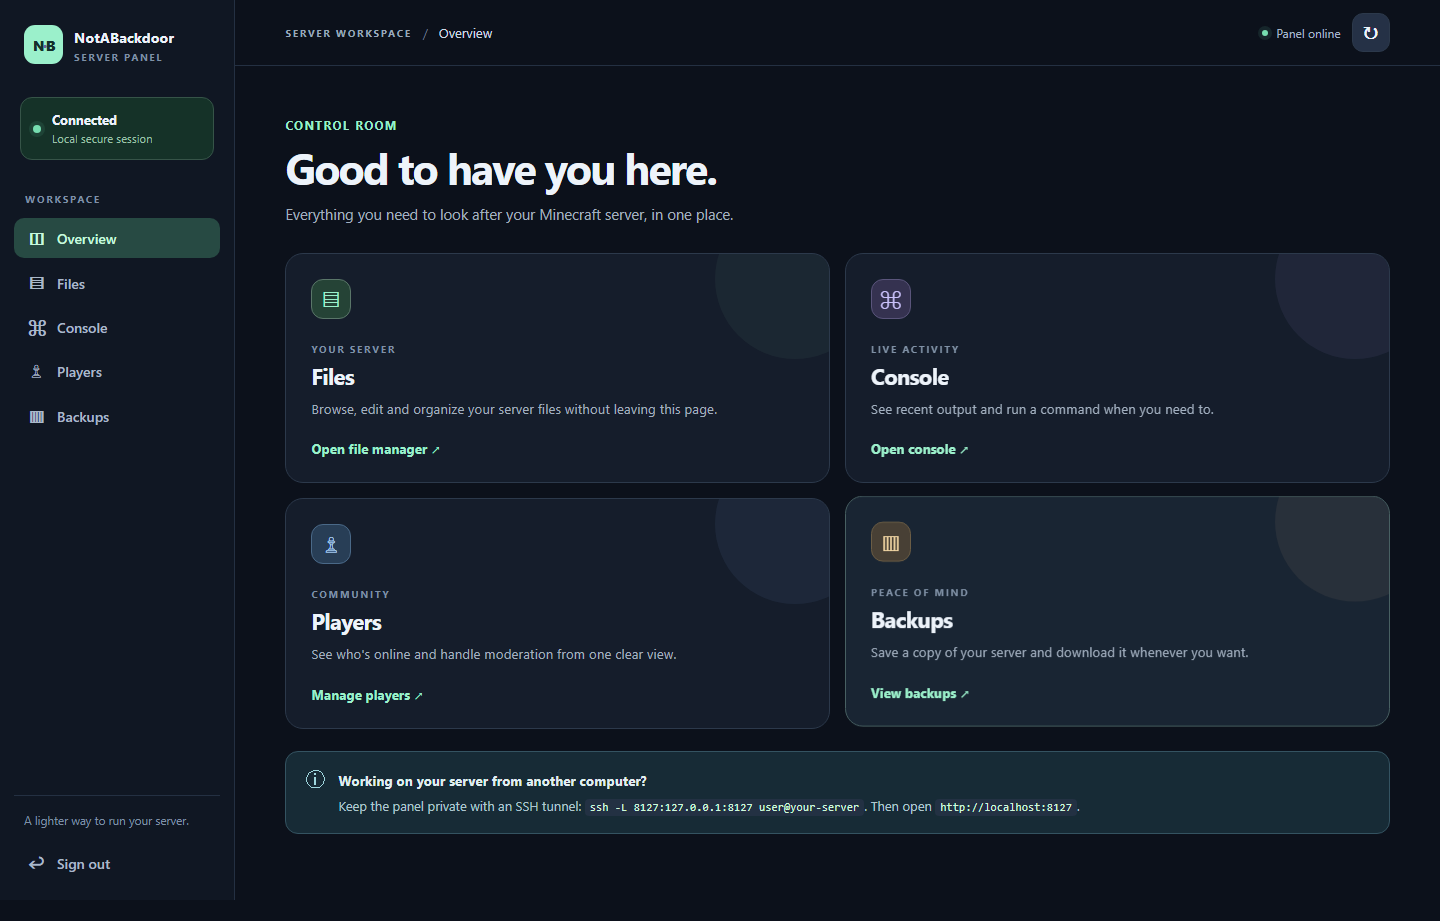
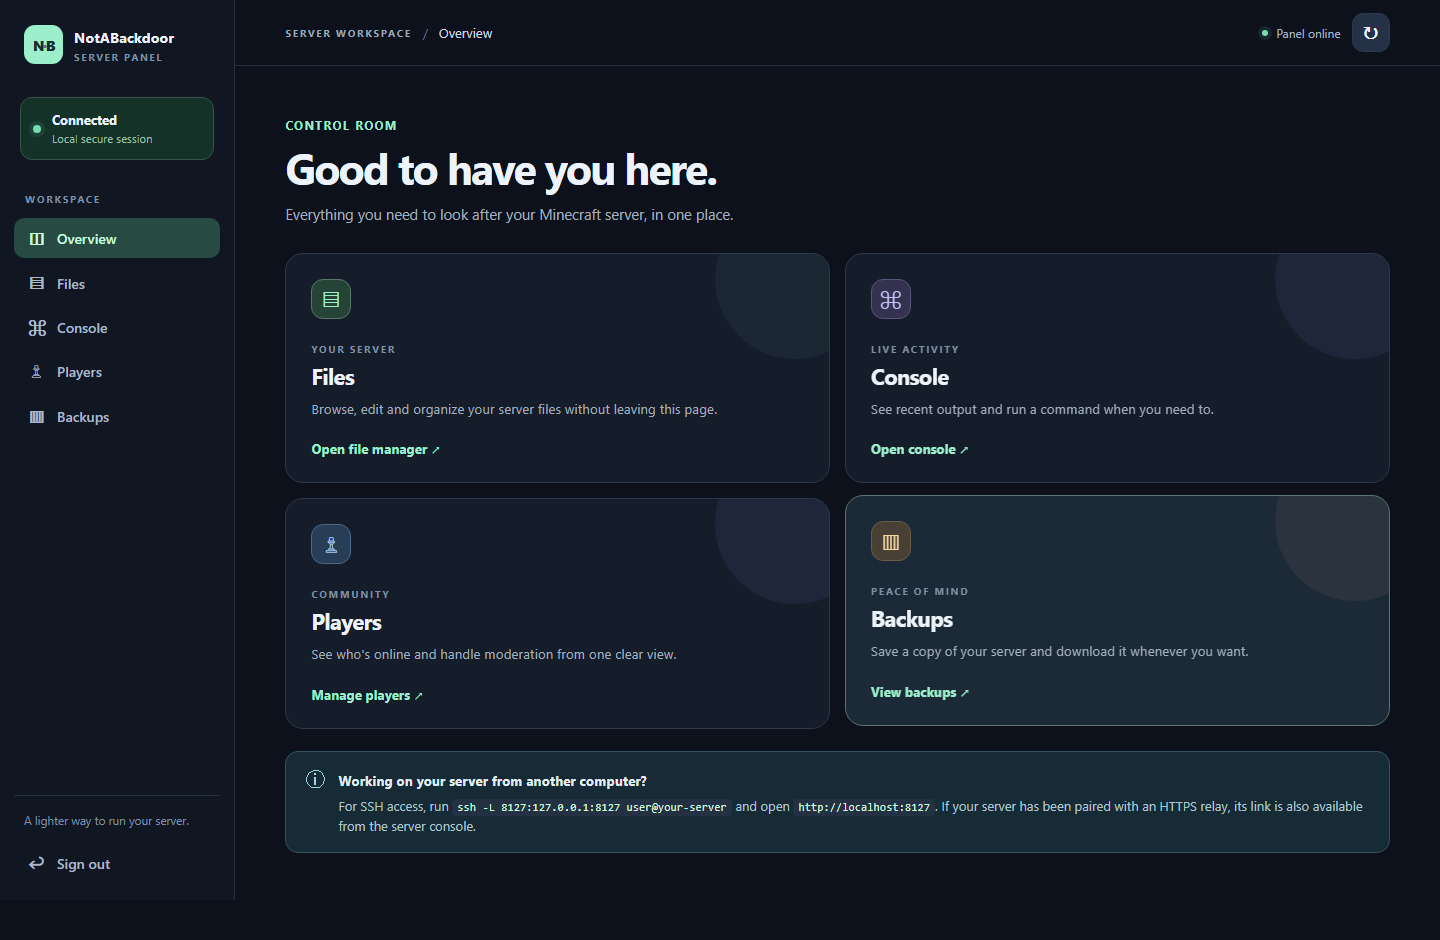
Document beta.2 evidence and refresh exact-JAR screenshots

diff --git a/docs/TESTING.md b/docs/TESTING.md
@@ -1,8 +1,38 @@
 # NotABackdoor exact-JAR test record
 
+## Outbound relay 1.0.0-beta.2 candidate
+
+The frozen candidate is `testing/notabackdoor/candidates/NotABackdoor-beta.2-091ad803c867.jar` in the parent workspace, built from source commit `633af9d0af1268388b5680531e38c5ff2c4c3699`. Its SHA-512 is:
+
+```text
[1 lines of base64/hex data omitted]
+```
+
+The JAR targets Java 17. A clean Windows checkout compiled with JDK 21 reproduced all **324 JAR entry bytes** from the candidate. The whole archive hash differs because ZIP container metadata differs; the attestation is `testing/notabackdoor/candidates/attestation-relay-beta2-windows.json`. A separate clean checkout on a Linux filesystem, built with JDK 17, passed all **18 Maven tests with none skipped**, including symlink-race checks. Its line endings and compiler differ from the Windows candidate, so that build is test evidence, not the bytewise provenance proof. The local Python relay suite passed **14 tests**, including TLS rejection, pairing, durable limits, bounded streaming, concurrent jobs, cancellation, restart, and revocation. Browser JavaScript syntax passed.
+
+The **same exact JAR** passed two startup rounds on each pinned Paper combination: 40 panel checks at first start and 41 after restart, including password persistence. Every server stopped afterward and its world was retained. Paper 26.3 remains experimental.
+
+| Minecraft | Paper build | Java | Mode | Result |
+| --- | ---: | ---: | --- | --- |
+| 1.18.2 | 388 | 17 | Offline | 40 + 41 checks passed |
+| 1.21.11 | 132 | 21 | Offline | 40 + 41 checks passed |
+| 26.2 | 129 | 25 | Offline | 40 + 41 checks passed |
+| 26.3 (experimental) | 140 | 25 | Offline | 40 + 41 checks passed |
+| 26.2 | 129 | 25 | Online | 40 + 41 checks passed |
+
+Local HTTPS relay bridge checks also passed **11/11** on Paper 1.18.2 and 26.2, with the actual plugin forwarding the panel through a certificate-verified local relay. The checks included console pairing link and separate code, route and panel cookies, real page assets, panel login, foreign-Origin denial, untrusted-certificate rejection, and revocation. This does not prove a public DNS, Nginx, or certificate deployment. Those remain unconfigured.
+
+An isolated Paper 1.21.11 build 132 server, Java 21, with an offline-mode scripted Minecraft client separately passed **30/30** operator, console, whitelist, ban, pardon, reconnect, and denial checks against this JAR. The retained receipt is `testing/notabackdoor/live-relay-client/20261002T043912Z/result.json`; the server was stopped afterward. No Microsoft-authenticated player joined an online-mode server. The 26.2 online-mode check proves startup and panel API behavior only.
+
+Headless Edge captured eight unedited desktop/mobile screenshots while the exact JAR ran on Paper 1.18.2. It opened and inspected a file, navigated all views, and reported no page errors. The browser receipt records this JAR and the embedded panel-asset SHA-256 values. Selected captures below are copied byte-for-byte from `testing/notabackdoor/live-relay-beta2/screenshots/` in the parent workspace.
+
+The relay binds to loopback by default and has review-only dedicated-hostname service and Nginx templates. No public relay exists yet. The current `za.bytebuilders.co.za` host serves a different application; it cannot be reused even on a separate port because cookies are shared by hostname. A dedicated origin, DNS, matching TLS certificates, owner approval, and live public pairing/login/revocation checks are release prerequisites. SSH forwarding remains available now. The relay operator can see panel passwords, files, commands, and backups in transit; SSH is the higher-privacy choice. One browser profile supports one active route/session on a relay origin, so switching servers needs re-pairing or separate browser profiles.
+
+Only the four Paper versions above were live tested. Purpur, Spigot, Bukkit, other Paper builds, default Windows JDK filesystem providers, and authenticated Microsoft logins remain unverified or unsupported as stated.
+
 ## Secure-file 1.0.0-beta.1 candidate
 
-The current frozen candidate in the parent workspace is `testing/notabackdoor/candidates/NotABackdoor-beta.1-7827286ffc8c.jar`, built from production-source commit `df5be879e076940ddbb35e682af31c2a4d1a65b1`. Its SHA-512 is:
+The earlier frozen candidate in the parent workspace is `testing/notabackdoor/candidates/NotABackdoor-beta.1-7827286ffc8c.jar`, built from production-source commit `df5be879e076940ddbb35e682af31c2a4d1a65b1`. Its SHA-512 is:
 
 ```text
[1 lines of base64/hex data omitted]
@@ -81,10 +111,10 @@ The pinned Paper JAR SHA-256 values were `0578f18f4d632b494b468ec56b3b414b5b56fe
 
 ## Browser checks and screenshots
 
-Headless Edge opened the real panel on Paper 1.18.2, signed in, navigated all views, opened and inspected a file, and rendered desktop and mobile layouts without page errors. A separate browser regression used delayed responses to check that new edits survive file and folder navigation. It also invalidated the session during a download, confirmed the browser stayed on the panel, and confirmed the unsaved text survived sign-in. All four regression checks passed. Receipts are in `testing/notabackdoor/live/screenshots/` in the parent workspace.
+Headless Edge opened the exact beta.2 panel on Paper 1.18.2, signed in, navigated all views, opened and inspected a file, and rendered desktop and mobile layouts without page errors. Its eight screenshots and receipt are in `testing/notabackdoor/live-relay-beta2/screenshots/` in the parent workspace. An earlier beta.1 browser regression used delayed responses to check that new edits survive file and folder navigation; it also invalidated the session during a download and checked that unsaved text survived sign-in. Those four historical regression checks passed, with separate receipts in `testing/notabackdoor/live/screenshots/`.
 
 ![File editor on desktop](screenshots/files-editor-desktop.png)
 
 ![Overview on a narrow mobile viewport](screenshots/overview-mobile.png)
 
-The screenshots are unedited captures of the frozen candidate. The browser checks did not join the Minecraft server as a player. All test servers were loopback-bound; the four-version sweep used `online-mode=false`, and the extra Paper 26.2 panel check used `online-mode=true`. The separate 1.21.11 offline-mode real-client probe above tested game connections. None of these checks establish Microsoft-authenticated player login or compatibility on untested Paper builds, Spigot, Purpur, or other loaders.
+The images above are unedited captures of the exact beta.2 candidate. The browser checks did not join the Minecraft server as a player. All local test servers were loopback-bound. None of these checks establish Microsoft-authenticated player login or compatibility on untested Paper builds, Spigot, Purpur, or other loaders.

diff --git a/README.md b/README.md
@@ -2,7 +2,7 @@
 
 A small web panel that runs inside a Paper server. It is for server owners who need to edit a configuration, look at a log, or moderate a player without navigating a full hosting control panel.
 
-The `1.0.0-beta.2` candidate replaces the old HTTP panel and adds an [opt-in outbound HTTPS relay](relay/README.md). It is **not released yet**. Keep using a separate server or a backup when testing it. SSH forwarding remains the tested remote-access route; the relay is not publicly deployed yet.
+The `1.0.0-beta.2` candidate replaces the old HTTP panel and adds an [opt-in outbound HTTPS relay](relay/README.md). It is **not released yet**. Keep using a separate server or a backup when testing it. SSH forwarding and the relay bridge both passed local tests; the relay is not publicly deployed yet.
 
 ![Desktop overview of the NotABackdoor panel](docs/screenshots/overview-desktop.png)
 
@@ -18,16 +18,16 @@ The `1.0.0-beta.2` candidate replaces the old HTTP panel and adds an [opt-in out
 
 ## Install and sign in
 
-1. Use a Paper and Java combination listed in [the exact live test record](docs/TESTING.md). The previous secure beta JAR passed on Paper 1.18.2, 1.21.11, 26.2, and experimental 26.3; this new relay candidate requires its own exact-JAR checks. Copy the JAR into `plugins/` and start the server.
+1. Use a Paper and Java combination listed in [the exact live test record](docs/TESTING.md). This beta.2 JAR passed on Paper 1.18.2, 1.21.11, 26.2, and experimental 26.3. Copy the JAR into `plugins/` and start the server.
 2. Run `nab setup` **from the server console**. This prints a one-time code that expires in 15 minutes. It is never placed in a URL.
 3. On the server itself, open `http://127.0.0.1:8127`. From another computer, run `ssh -L 8127:127.0.0.1:8127 user@your-server` and open `http://localhost:8127` locally.
 4. Enter the setup code and choose a password of at least 12 characters. Sign in to the panel.
 
 The panel listens only on `127.0.0.1`. It intentionally refuses a public bind address. SSH access needs no additional service. The optional relay uses a separately operated HTTPS service and a dedicated hostname; it is disabled until paired. Change `panel.port` in `plugins/NotABackdoor/config.yml` if 8127 is in use.
 
-The file manager and backups require a Java filesystem provider with `SecureDirectoryStream`, which keeps operations bound to open directory handles during symlink swaps. If the provider lacks it, the plugin refuses to start and logs `This filesystem has no race-safe directory handles; panel file access is disabled`. The tested Linux filesystem supports it; the default Windows JDK provider does not. The exact secure-file candidate passed the [pinned live checks](docs/TESTING.md#secure-file-100-beta1-candidate).
+The file manager and backups require a Java filesystem provider with `SecureDirectoryStream`, which keeps operations bound to open directory handles during symlink swaps. If the provider lacks it, the plugin refuses to start and logs `This filesystem has no race-safe directory handles; panel file access is disabled`. The tested Linux filesystem supports it; the default Windows JDK provider does not. The exact beta.2 candidate passed the [pinned live checks](docs/TESTING.md#outbound-relay-100-beta2-candidate).
 
-On Paper 1.21.11, a scripted offline-mode Minecraft client also verified that panel operator, console, whitelist, and ban actions affect a connected player and subsequent joins. The [test record](docs/TESTING.md#real-client-panel-probe) distinguishes this 30/30 end-to-end result from the four-version panel API checks. A Microsoft-authenticated player login has not been tested.
+On Paper 1.21.11, a scripted offline-mode Minecraft client also verified that panel operator, console, whitelist, and ban actions affect a connected player and subsequent joins. The [beta.2 test record](docs/TESTING.md#outbound-relay-100-beta2-candidate) distinguishes this 30/30 end-to-end result from the four-version panel API checks. A Microsoft-authenticated player login has not been tested.
 
 If your host does not provide SSH access, the [outbound relay candidate](relay/README.md) offers a one-time console pairing link after a relay operator deploys a dedicated HTTPS origin. Set `relay.origin` in the plugin config, run `nab relay pair`, then open the link and enter the separate console code. It is not publicly deployed, so this is not yet an available setup option. Opening a public HTTP port is not a supported shortcut.
 

diff --git a/relay/README.md b/relay/README.md
@@ -1,6 +1,6 @@
 # Experimental HTTPS relay
 
-This directory is a **local release candidate in development**, not a deployed service or a published plugin feature. The existing secure beta checkout and its test evidence remain separate. The panel still binds only to `127.0.0.1`; SSH forwarding remains available even if the relay is down.
+This directory is a **tested local release candidate**, not a deployed service or a published plugin feature. The earlier secure beta and its test evidence remain separate. The panel still binds only to `127.0.0.1`; SSH forwarding remains available even if the relay is down.
 
 The plugin makes outbound, certificate-verified HTTPS requests to a relay origin. Set `relay.origin` in `config.yml` after choosing a deployed operator, then `nab relay pair` needs no argument; `nab relay pair <https-origin>` remains available for self-hosted relays. A browser opens the one-time URL and enters the separate code printed in the same server console. The link and code expire after 15 minutes and are each needed to claim the route. The browser then receives a signed, 30-day, Secure, HttpOnly route cookie. Its requests to `/`, assets, and `/api/*` use the same origin; the relay streams them to the plugin over authenticated long polling and the plugin forwards them to its loopback panel. `nab relay status` shows pairing state; `nab relay revoke` immediately stops local serving and retries server-side revocation across disconnects. Device state survives Minecraft restarts in the private plugin data directory.
 
@@ -32,4 +32,4 @@ The service enforces an exact HTTPS Host and Origin, a CSRF header on panel muta
 
 Pair enrollment, login/setup, and pairing-claim limits use SQLite token buckets that survive service restart. Pair start is limited globally to a burst of five and a refill of five per minute, plus 12 per hour per client IP and three pending links per IP. Under a stable clock, fewer than 100 pairings can start within the 15-minute lifetime, so one client or a botnet cannot fill the 100-pending-pair cap. Durable buckets are pruned after 24 hours and capped at 50,000 keys. This still permits a distributed attacker to consume the small global enrollment budget and temporarily deny legitimate pairing; the deployment needs monitoring and an owner-approved public endpoint.
 
-**Remaining public-deployment blockers:** A dedicated hostname and matching browser/upstream TLS certificates are not yet chosen. The existing `za.bytebuilders.co.za` host serves phpMyAdmin and cannot be reused, even on another port because browser cookies ignore ports. The exact Nginx/TLS path and certificate rotation need live verification, as do the Minecraft/Paper version matrix and the browser's shared-origin server-switch experience. A new plugin candidate and its tests are required before a release; the secure beta JAR remains unchanged.
+**Remaining public-deployment blockers:** A dedicated hostname and matching browser/upstream TLS certificates are not yet chosen. The existing `za.bytebuilders.co.za` host serves phpMyAdmin and cannot be reused, even on another port because browser cookies ignore ports. The exact Nginx/TLS path, public pairing/login/revocation, certificate rotation, and the browser's shared-origin server-switch experience need live verification. The exact beta.2 JAR passed four pinned Paper versions plus a 26.2 online-mode startup, local HTTPS relay bridge checks on 1.18.2 and 26.2, and a 30/30 offline real-client probe; see [the test record](../docs/TESTING.md#outbound-relay-100-beta2-candidate). Publication stays gated until deployment and owner review.

diff --git a/relay/deploy/README.md b/relay/deploy/README.md
@@ -7,3 +7,5 @@ The systemd service binds the Python relay to `127.0.0.1:27443` with TLS. It use
 The Nginx vhost terminates the public HTTPS connection and establishes a **second verified TLS connection** to the loopback relay. It overwrites `X-Forwarded-For` with one client IP, passes the exact external Host, disables access/error path logging and request/response buffering, and allows three-hour streaming downloads. An HTTP port-80 redirect is deliberately omitted because an `http://` pairing URL would otherwise expose its secret path before redirect; choose a certificate-renewal method without such a route. The template has no automatic install steps and must be checked against the host's existing Nginx configuration with `nginx -t` before any rollout.
 
 The relay itself still validates external Host/Origin/CSRF, caps requests, and authenticates devices. The public operator can nevertheless see all panel traffic in memory. Firewall policy should keep 27443 reachable only from local Nginx, and the service process must have no workspace, Modrinth, SSH management, or Minecraft server credentials. The default Python CLI bind is also loopback. SQLite-backed token buckets persist login/enrollment limits across restarts; a five-per-minute global pair-start rate stays below the 100-pending-pair cap. **Do not deploy this template yet:** a dedicated hostname/certificate and browser/upstream TLS verification are missing. A distributed attacker can still consume the enrollment budget. Test certificate rotation and real server/client behavior before public rollout; the current relay tests use localhost TLS.
+
+The parent workspace's beta.2 publisher stays closed until an **actual external browser and Paper-plugin probe** runs against the dedicated origin. A public probe runner must capture the installed JAR hash, separate console link/code, external browser navigation and panel action, Secure route and session cookies, Host/Origin rejection, server-side revocation, browser and upstream TLS hostname/certificate fingerprints, and a redacted plugin log plus browser screenshot. Its time-stamped receipt and artifact hashes must be saved under `testing/notabackdoor/live-relay-public/`. `testing/notabackdoor/relay-public-deployment.json` then binds that receipt to the owner-approved origin. The publisher rejects missing, altered, or older-than-24-hour evidence and independently rechecks the public browser TLS fingerprint immediately before any Modrinth write. A status flag alone is insufficient. The probe runner has not been written or run because no dedicated public origin exists yet.
